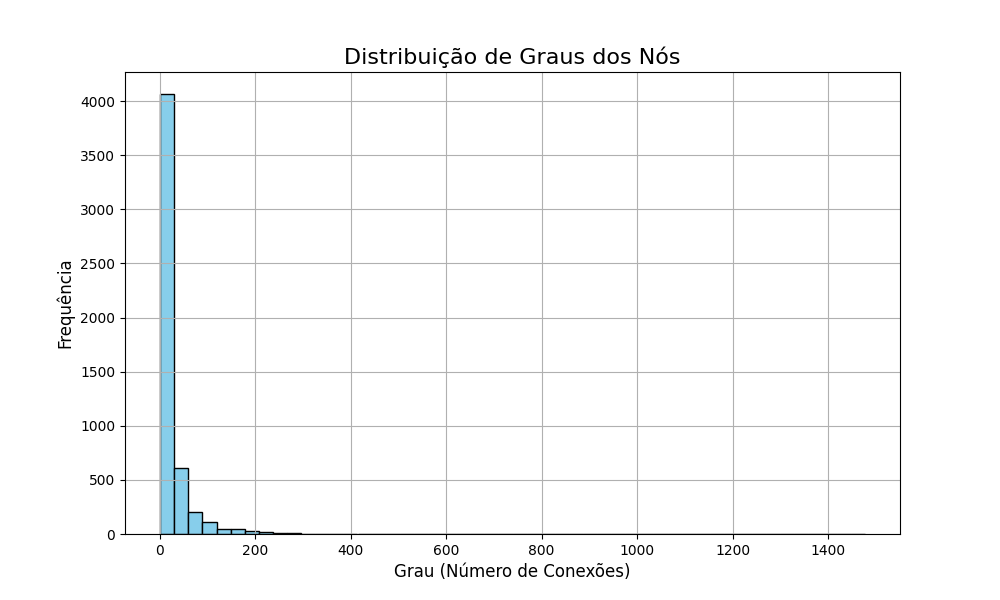
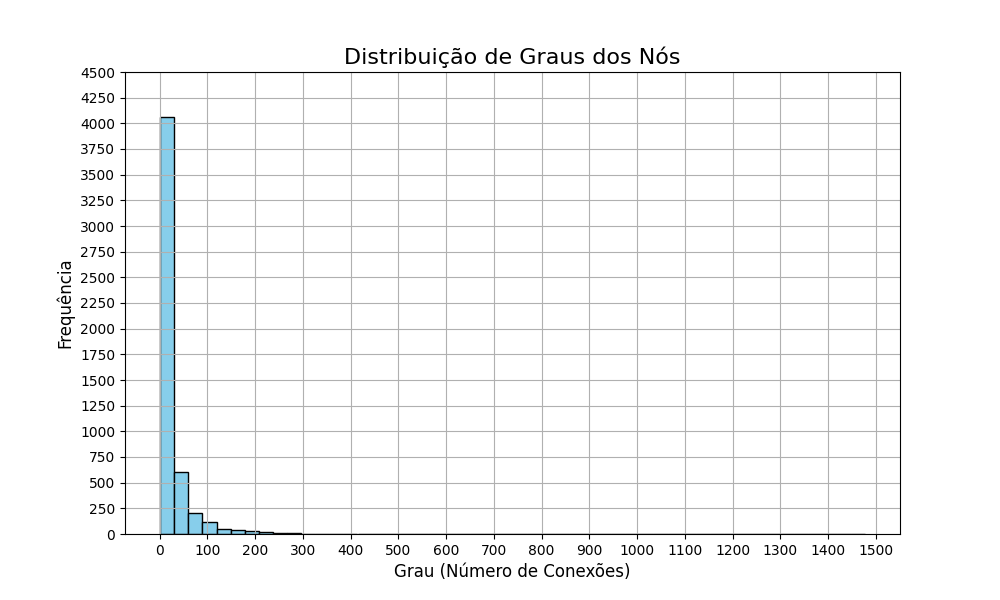
visualizacao grafico corrigido

diff --git a/src/visualizacoespt2.py b/src/visualizacoespt2.py
@@ -23,6 +23,9 @@ def load_and_plot_degrees(file_path, output_path):
     plt.ylabel('Frequência', fontsize=12)
     plt.grid(True)
     
+    plt.xticks(range(0, int(max(graus_totais)) + 100, 100)) 
+    plt.yticks(range(0, int(max(plt.gca().get_ylim())) + 250, 250))
+    
     os.makedirs(output_path, exist_ok=True)
     output_file = os.path.join(output_path, 'distribuicao_graus.png')
     
@@ -38,63 +41,3 @@ output_path = 'out/visualizacoespt2'
 
 load_and_plot_degrees(file_path, output_path)
 
-def create_distance_heatmap(file_path, output_path):
-    df = pd.read_csv(file_path)
-    
-    edges = df[['uf_a', 'codmundv_a', 'nomemun_a', 'uf_b', 'codmundv_b', 'nomemun_b', 'tempo']]
-    edges.columns = ['origem_uf', 'origem_cod', 'origem_nome', 'destino_uf', 'destino_cod', 'destino_nome', 'peso']
-    
-    nodes = pd.concat([edges['origem_nome'], edges['destino_nome']]).unique()
-    node_idx = {node: idx for idx, node in enumerate(nodes)}
-    
-    dist_matrix = np.zeros((len(nodes), len(nodes)))
-    for _, row in edges.iterrows():
-        origem_idx = node_idx[row['origem_nome']]
-        destino_idx = node_idx[row['destino_nome']]
-        dist_matrix[origem_idx, destino_idx] = row['peso']
-    
-    plt.figure(figsize=(12, 8))
-    sns.heatmap(dist_matrix, xticklabels=nodes, yticklabels=nodes, cmap="YlGnBu", annot=False, fmt="g")
-    plt.title('Heatmap de Distâncias (Tempo) entre os Nós', fontsize=16)
-    plt.xlabel('Destino', fontsize=12)
-    plt.ylabel('Origem', fontsize=12)
-    
-    os.makedirs(output_path, exist_ok=True)
-    output_file = os.path.join(output_path, 'heatmap_distancias.png')
-    
-    plt.savefig(output_file)
-    
-    print(f'Heatmap de distâncias salvo em: {output_file}')
-    
-    plt.close()
-
-file_path = 'data/dataset_parte2/LRH2016_00_Base_Completa.csv'
-
-output_path = 'out/visualizacoespt2'
-create_distance_heatmap(file_path, output_path)
-
-
-def load_and_create_graph(file_path, output_path):
-    df = pd.read_csv(file_path)
-    
-    edges = df[['uf_a', 'codmundv_a', 'nomemun_a', 'uf_b', 'codmundv_b', 'nomemun_b', 'tempo']]
-    edges.columns = ['origem_uf', 'origem_cod', 'origem_nome', 'destino_uf', 'destino_cod', 'destino_nome', 'peso']
-    
-    net = Network(height='750px', width='100%', directed=True)
-    for _, row in edges.iterrows():
-        net.add_node(row['origem_nome'], label=row['origem_nome'])
-        net.add_node(row['destino_nome'], label=row['destino_nome'])
-        net.add_edge(row['origem_nome'], row['destino_nome'], value=row['peso'])
-
-    os.makedirs(output_path, exist_ok=True)
-    
-    output_file = os.path.join(output_path, 'amostra_grafo.html')
-    net.save_graph(output_file)
-    
-    print(f'Grafo salvo em: {output_file}')
-
-file_path = 'data/dataset_parte2/LRH2016_00_Base_Completa.csv'
-
-output_path = 'out/visualizacoespt2'
-
-load_and_create_graph(file_path, output_path)
